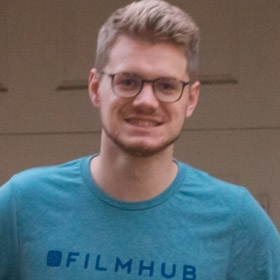
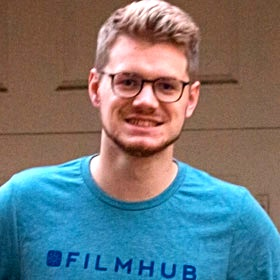
crisper team photos

diff --git a/index.html b/index.html
@@ -217,7 +217,7 @@ id: home
     <div class="row" id="teampics">
       <div class="col-md-3">
         <div class="text-center">
-          <img src="/images/klaus_2016_13_140.jpg" width="140" height="140" alt="Klaus" class="img-circle">
+          <img src="/images/klaus.jpg" width="140" height="140" alt="Klaus" class="img-circle">
           <h3 >Klaus Badelt <small>Founder | CEO</small></h3>
         </div>
       </div>
